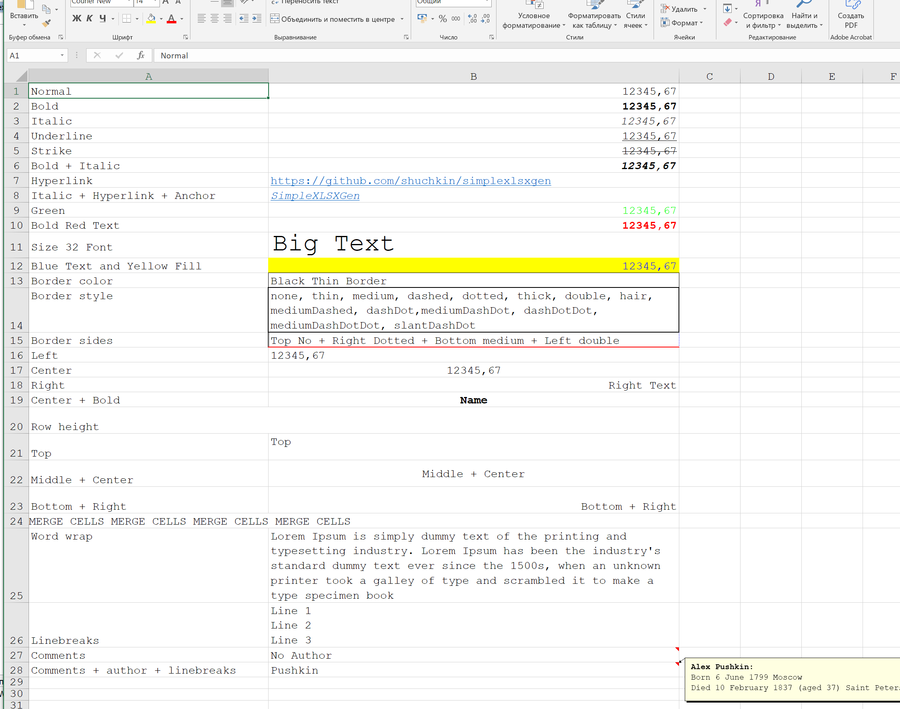
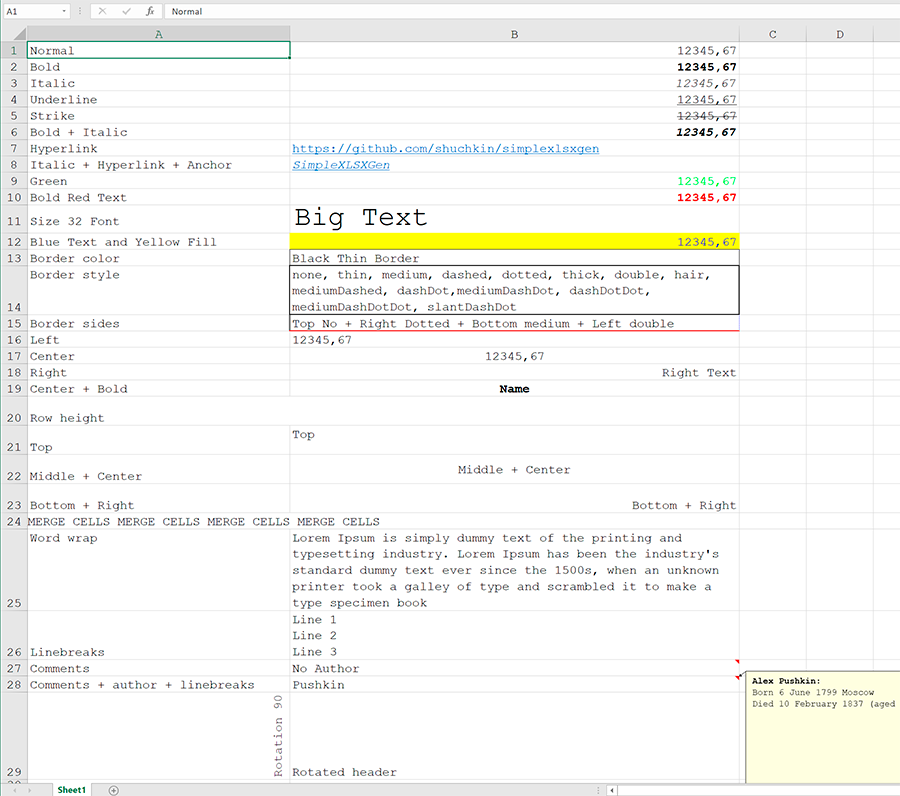
1.5.12

diff --git a/src/SimpleXLSXGen.php b/src/SimpleXLSXGen.php
@@ -36,7 +36,7 @@ class SimpleXLSXGen
     protected $BR_STYLE;
     protected $SI; // shared strings
     protected $SI_KEYS;
-    protected $rIndex;
+//    protected $rIndex;
 
     protected $title;
     protected $subject;
@@ -83,6 +83,7 @@ class SimpleXLSXGen
     const A_MIDDLE = 16;
     const A_BOTTOM = 32;
     const A_WRAPTEXT = 64;
+    const A_ROTATION_90 = 128;
     const B_NONE = 0;
     const B_THIN = 1;
     const B_MEDIUM = 2;
@@ -576,6 +577,9 @@ class SimpleXLSXGen
                     if ($xf[1] & self::A_WRAPTEXT) {
                         $align .= ' wrapText="1"';
                     }
+                    if ($xf[1] & self::A_ROTATION_90) {
+                        $align .= ' textRotation="90"';
+                    }
 
                     // border
                     $BR_ID = 0;
@@ -817,9 +821,10 @@ class SimpleXLSXGen
                     }
                     $ct = $cv = $cf = null;
                     $N = $NF = $A = $F = $FL = $C = $BG = $FS = $FR = 0;
+                    $m = $m2 = null;
                     $BR = '';
                     if (is_string($v)) {
-                        if ($v[0] === "\0") { // RAW value as string
+                        if (strpos($v, "\0") === 0) { // RAW value as string
                             $v = substr($v, 1);
                             $vl = mb_strlen($v);
                         } else {
@@ -874,7 +879,7 @@ class SimpleXLSXGen
                                     if (preg_match('/ font-size="([^"]+)"/', $m[1], $m2)) {
                                         $FS = (int)$m2[1];
                                         if ($RH === 0) { // fix row height
-                                            $RH = ($FS > $this->defaultFontSize) ? round($FS * 1.50, 1) : 0;
+                                            $RH = ($FS > $this->defaultFontSize) ? round($FS * 1.50, 1, PHP_ROUND_HALF_UP) : 0;
                                         }
                                     }
                                 }
@@ -898,6 +903,9 @@ class SimpleXLSXGen
                                 }
                                 if (strpos($v, '<wraptext>') !== false) {
                                     $A += self::A_WRAPTEXT;
+                                }
+                                if (strpos($v, '<rotation90>') !== false) {
+                                    $A += self::A_ROTATION_90;
                                 }
                                 if (preg_match('/<a href="([^"]+)">(.*?)<\/a>/i', $v, $m)) {
                                     $F += self::F_HYPERLINK;
@@ -933,8 +941,6 @@ class SimpleXLSXGen
                             if ($FR) {
                                 $v = htmlspecialchars_decode($v);
                                 $vl = mb_strlen($v);
-                            } elseif ($N) {
-                                $cv = ltrim($v, '+');
                             } elseif ($v === '0' || preg_match('/^[-+]?[1-9]\d{0,14}$/', $v)) { // Integer as General
                                 $cv = ltrim($v, '+');
                                 if ($vl > 10) {
@@ -956,10 +962,10 @@ class SimpleXLSXGen
                                 }
                                 $cv = trim($v, ' +₽€');
                             } elseif (preg_match('/^([-+]?\d+)%$/', $v, $m)) {
-                                $cv = round($m[1] / 100, 2);
+                                $cv = round($m[1] / 100, 2, PHP_ROUND_HALF_UP);
                                 $N = self::N_PERCENT_INT; // [9] 0%
                             } elseif (preg_match('/^([-+]?\d+\.\d+)%$/', $v, $m)) {
-                                $cv = round($m[1] / 100, 4);
+                                $cv = round($m[1] / 100, 4, PHP_ROUND_HALF_UP);
                                 $N = self::N_PRECENT_DEC; // [10] 0.00%
                             } elseif (preg_match('/^(\d\d\d\d)-(\d\d)-(\d\d)$/', $v, $m)) {
                                 $cv = self::date2excel($m[1], $m[2], $m[3]);
@@ -1310,6 +1316,7 @@ class SimpleXLSXGen
     public static function cell2coord($cell, &$x, &$y)
     {
         $x = $y = 0;
+        $m = null;
         if (preg_match('/^([A-Z]+)(\d+)$/', $cell, $m)) {
             $len = strlen($m[1]);
             for ($i = 0; $i < $len; $i++) {

diff --git a/README.md b/README.md
@@ -92,6 +92,7 @@ $data = [
     ['Linebreaks', "Line 1\nLine 2\nLine 3"],
     ['Comments', '<!-- Comment without author -->No Author'],
     ['Comments + author + linebreaks', "<!-- Alex Pushkin: Born 6 June 1799 Moscow\r\nDied 10 February 1837 (aged 37) Saint Petersburg-->Pushkin"],
+    ['<rotation90>Rotation 90</rotation90>', 'Rotated header'],
 ];
 SimpleXLSXGen::fromArray($data)
     ->setDefaultFont('Courier New')

diff --git a/CHANGELOG.md b/CHANGELOG.md
@@ -1,5 +1,8 @@
 # Changelog
 
+# 1.5.12 (2025-10-24)
+* added tag ```<rotation90>```
+
 # 1.5.11 (2025-08-09)
 * added ::rawArray()
 
